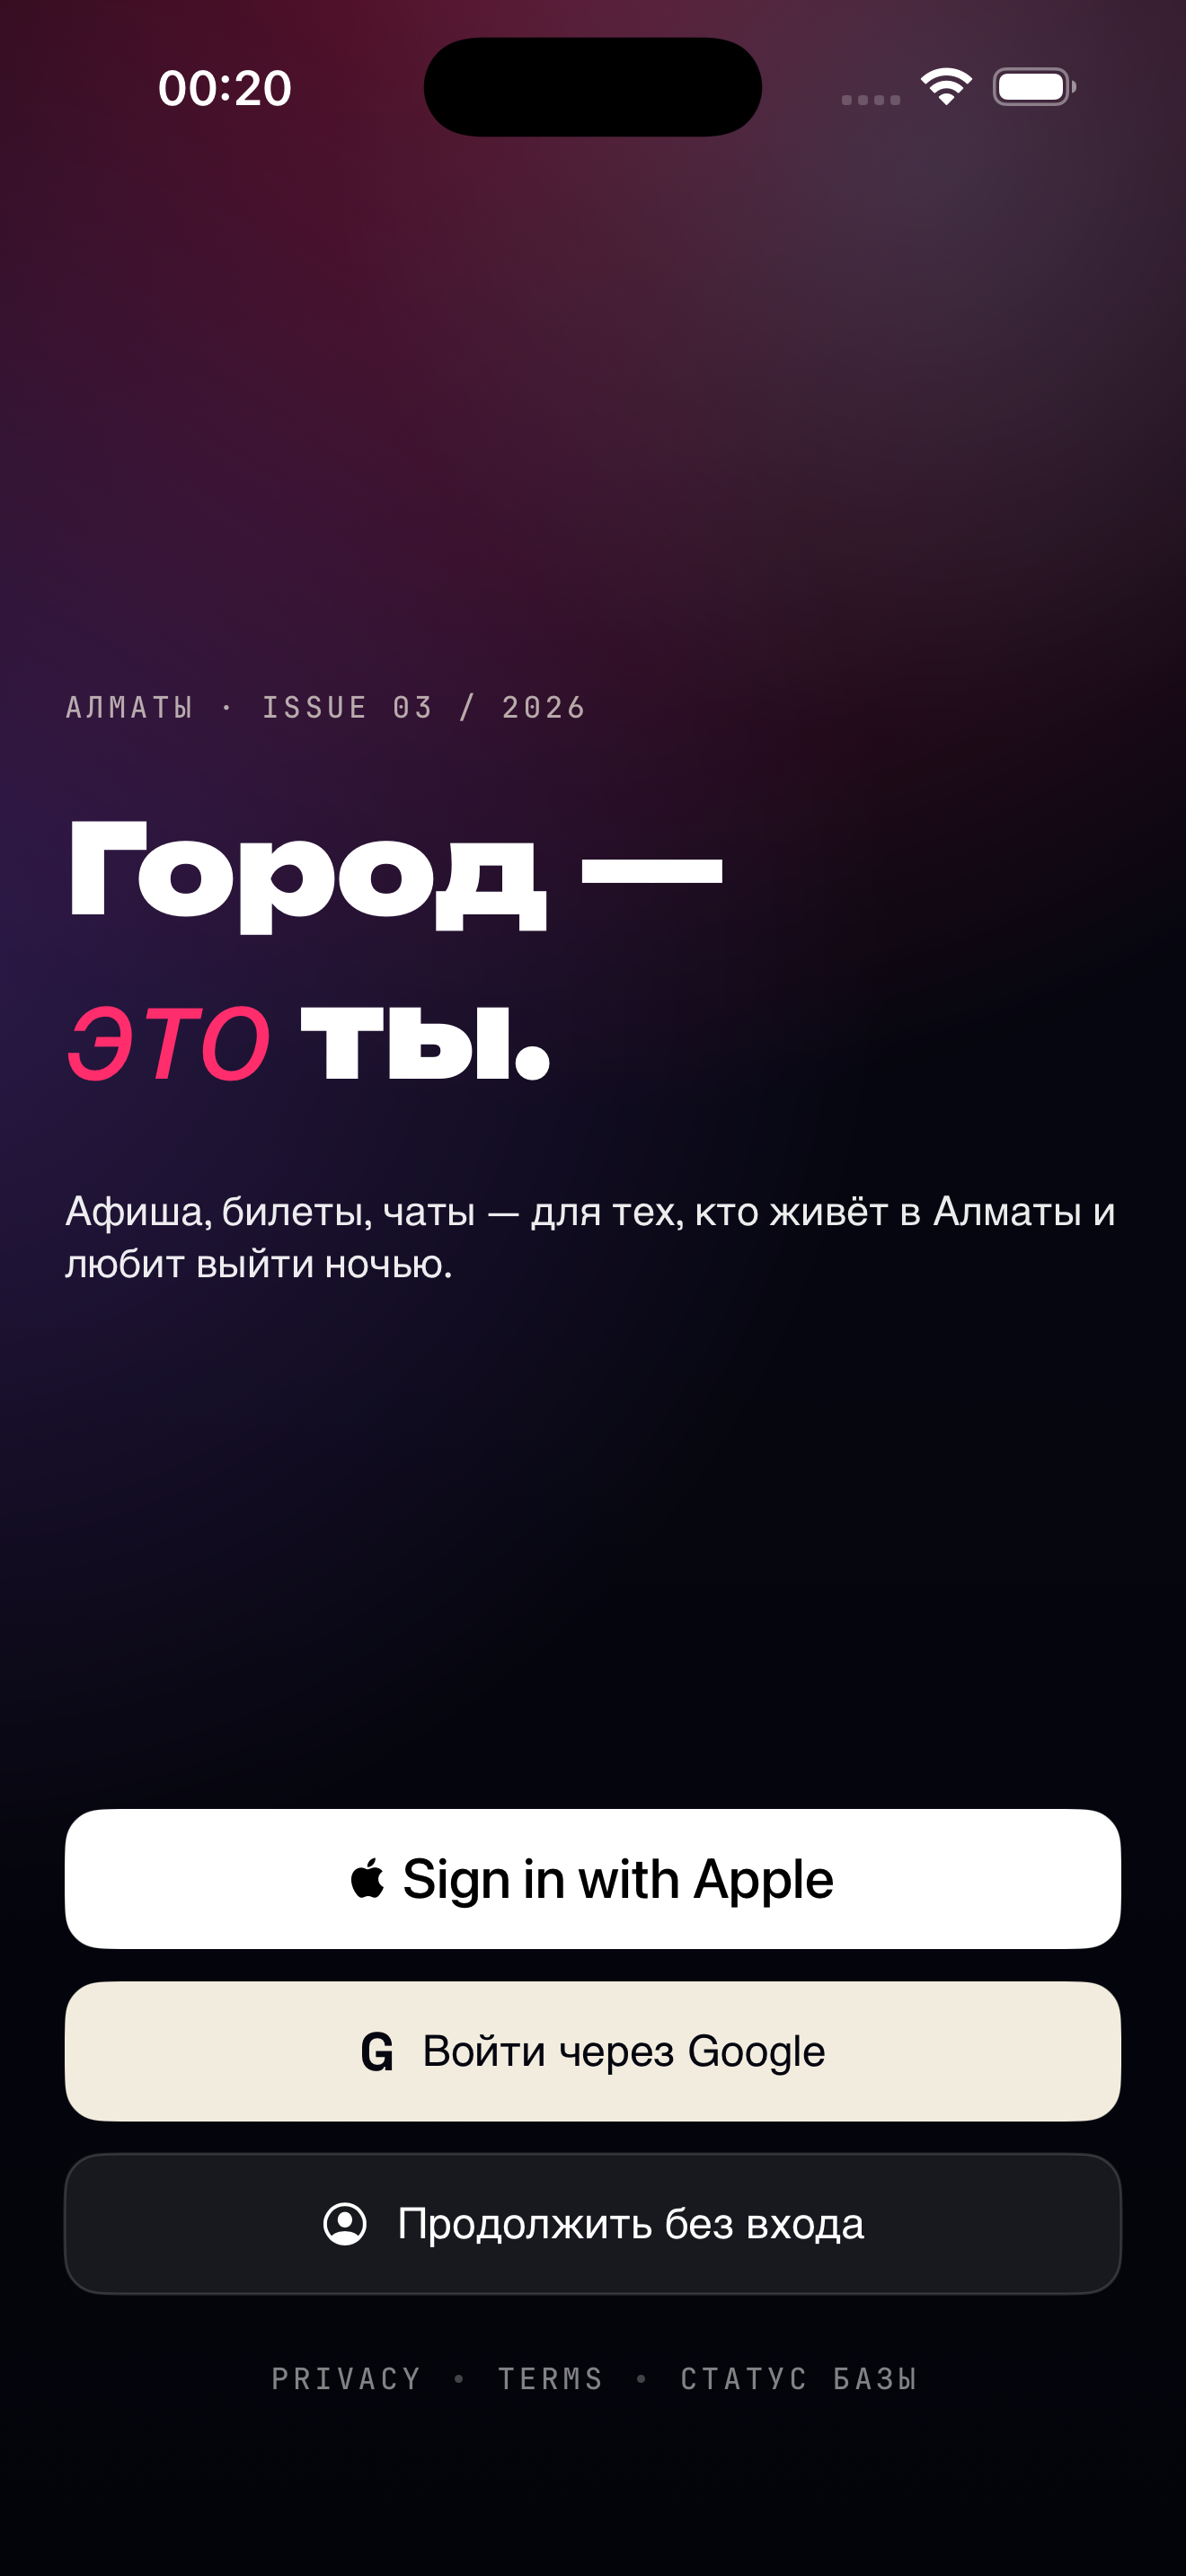
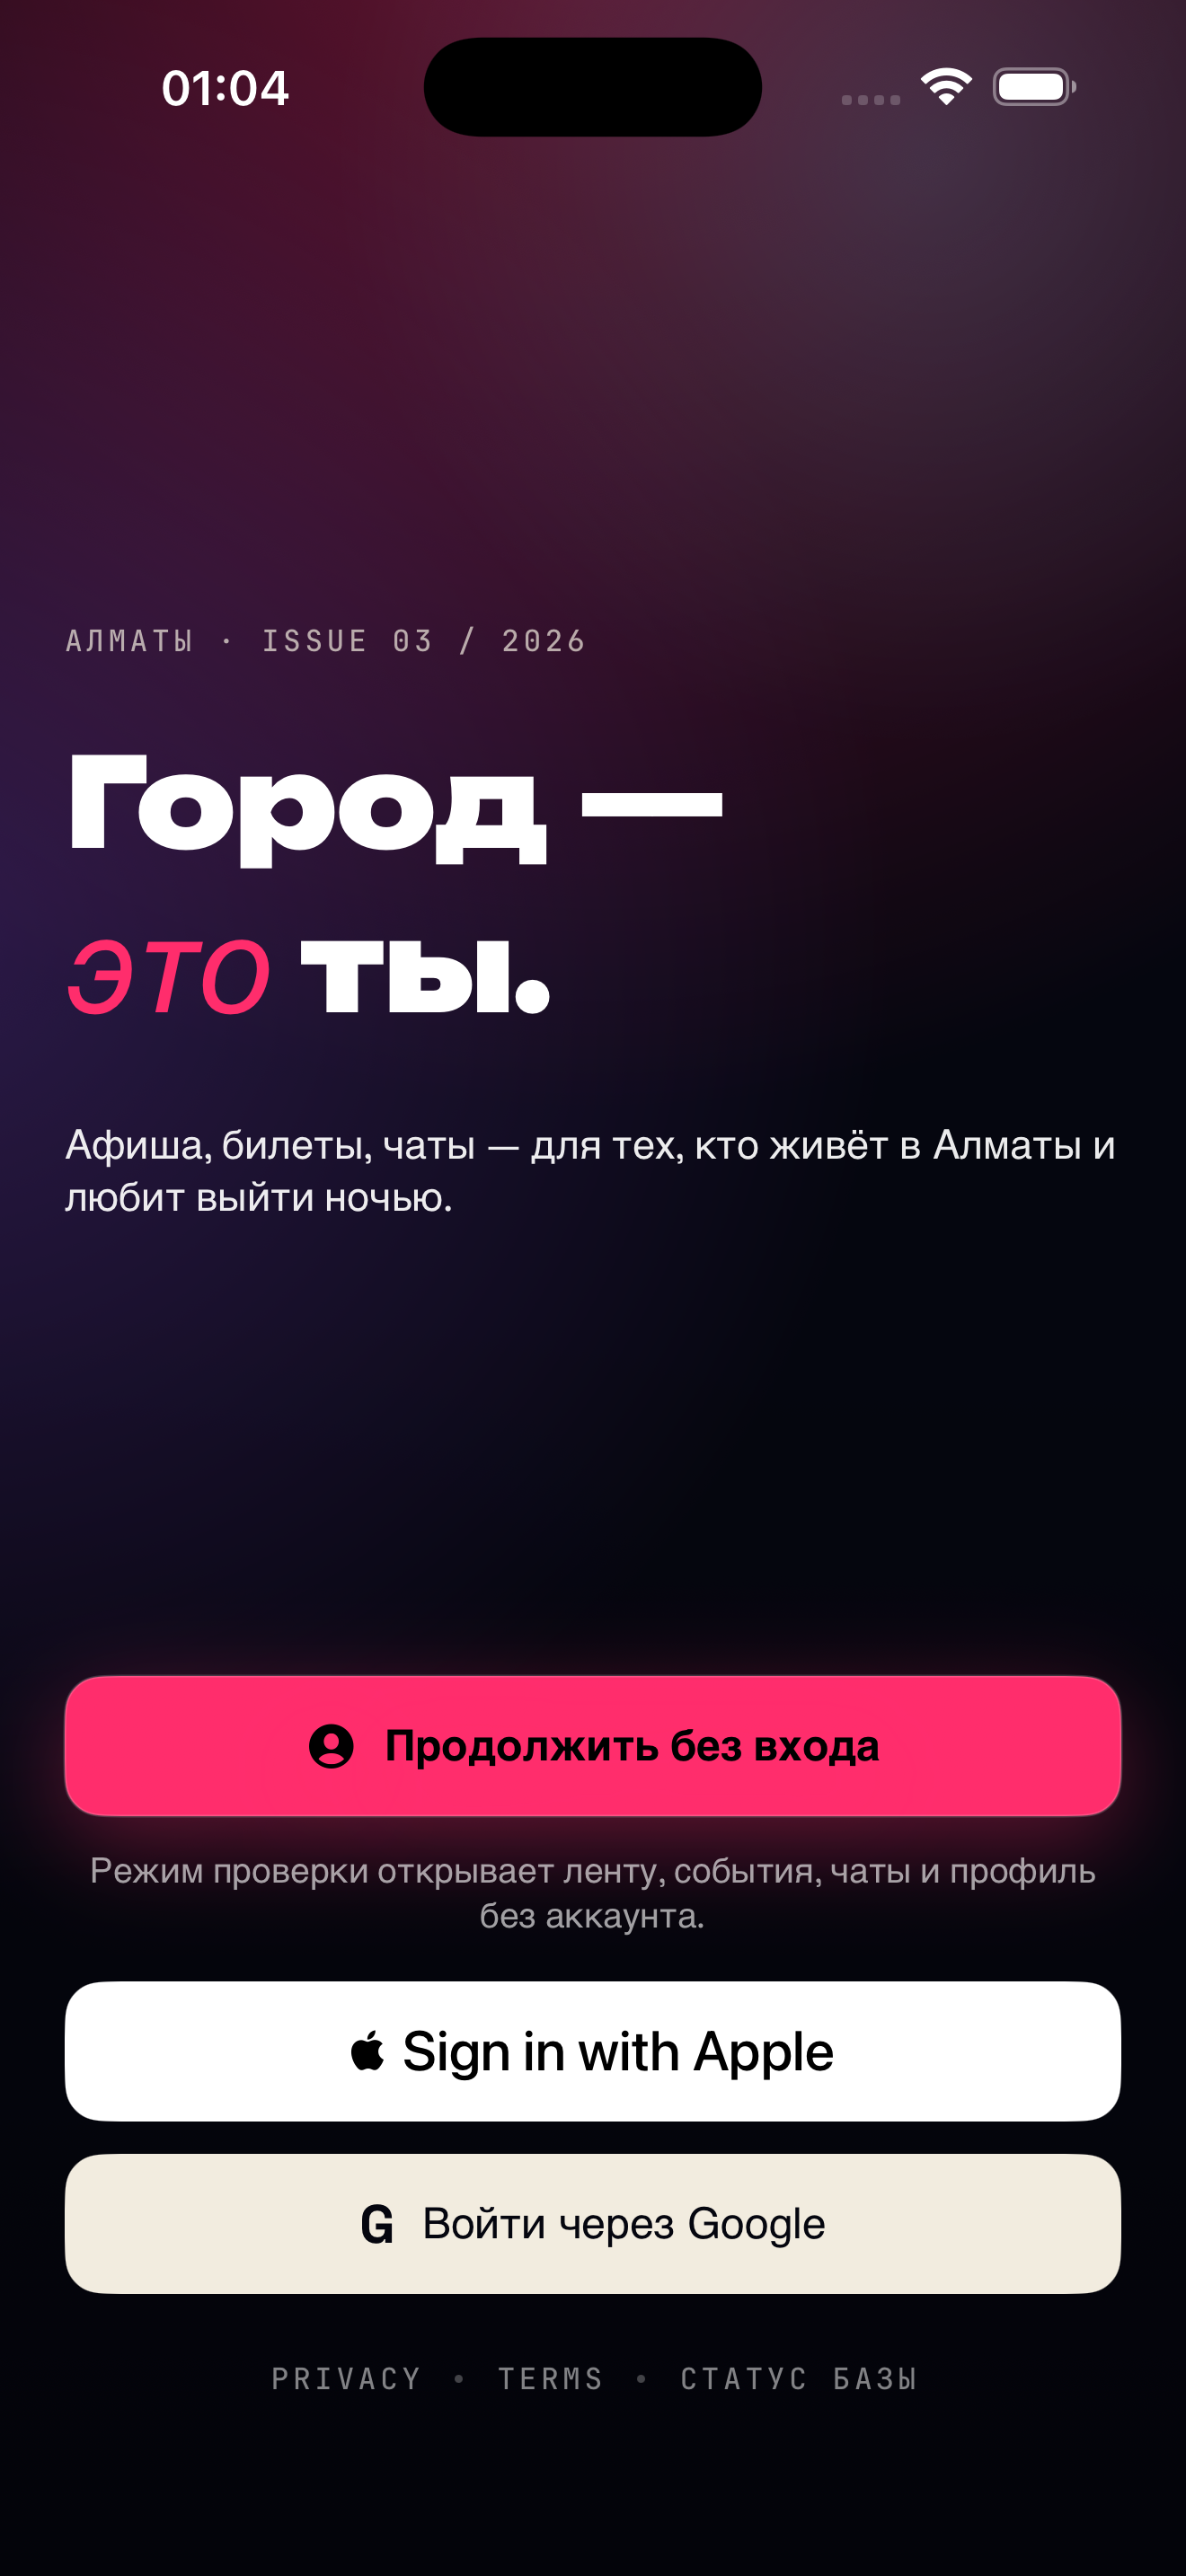
Update App Store pack for build 16 [skip ci]

diff --git a/APP_STORE_SUBMISSION.md b/APP_STORE_SUBMISSION.md
@@ -1,11 +1,11 @@
 # Playa App Store Submission Pack
 
-Current review candidate: Playa `1.0.0 (15)`.
+Current review candidate: Playa `1.0.0 (16)`.
 
 TestFlight evidence:
 
-- Git commit: `5b9d25c` (`Prepare category rail build 15`)
-- GitHub Actions run: https://github.com/tooyakov-art/playa-ios/actions/runs/27881154870
+- Git commit: `5b9d25c` (`Prepare category rail build 16`)
+- GitHub Actions run: https://github.com/tooyakov-art/playa-ios/actions/runs/27882234806
 - Required release step: `Upload to TestFlight = success`
 
 ## App Information
@@ -46,7 +46,7 @@ Version 1.0 does not sell real-money digital goods, subscriptions, or paid ticke
 
 ### What’s New
 
-Build 15 prepares Playa for App Store review: polished Russian category rail, iPhone-only release target, privacy manifest, review legal documents, clearer demo-star ticket flow, visible UGC report/block controls, and hardened TestFlight upload workflow.
+Build 16 prepares Playa for App Store review: primary guest review mode, polished Russian category rail, iPhone-only release target, privacy manifest, review legal documents, clearer demo-star ticket flow, visible UGC report/block controls, and hardened TestFlight upload workflow.
 
 ### Support URL
 
@@ -89,7 +89,7 @@ Production hardening note: also apply `supabase/004_release_hardening.sql`.
 
 ## Screenshot Set Needed
 
-Build 15 is iPhone-only. Upload iPhone screenshots only.
+Build 16 is iPhone-only. Upload iPhone screenshots only.
 
 Required practical set:
 

diff --git a/APP_STORE_PRIVACY_ANSWERS.md b/APP_STORE_PRIVACY_ANSWERS.md
@@ -1,6 +1,6 @@
 # Playa App Store Privacy Answers
 
-Use these answers in App Store Connect for build `1.0.0 (15)`. Keep them aligned with `Playa/PrivacyInfo.xcprivacy`.
+Use these answers in App Store Connect for build `1.0.0 (16)`. Keep them aligned with `Playa/PrivacyInfo.xcprivacy`.
 
 ## Tracking
 
@@ -16,7 +16,7 @@ Declare these as linked to the user and used for app functionality:
 - User Content: posts, comments, direct chats, event chats, reports, profile text, avatar/event images if uploaded.
 - Photos or Videos: avatar and event cover images selected by the user.
 
-## Data Not Collected in Build 15
+## Data Not Collected in Build 16
 
 - Payment Info: not collected; real-money purchases are disabled.
 - Purchases: not collected; StoreKit/IAP is disabled.
@@ -39,7 +39,7 @@ All declared data is not used for tracking.
 - Account management is handled as part of app functionality.
 - Moderation/support uses submitted reports and support email.
 
-## Not in build 15
+## Not in build 16
 
 - Real-money in-app purchases are disabled.
 - Subscriptions are disabled.

diff --git a/app-store/review/MODERATION_POLICY.md b/app-store/review/MODERATION_POLICY.md
@@ -1,6 +1,6 @@
 # Playa Moderation Policy for App Review
 
-Build: Playa `1.0.0 (15)`.
+Build: Playa `1.0.0 (16)`.
 
 ## UGC surfaces
 
@@ -12,7 +12,7 @@ Playa has these user-generated-content surfaces:
 - Event chats.
 - Profile text and avatars.
 
-## User controls in build 15
+## User controls in build 16
 
 - Users can report posts from the feed.
 - Users can report comments from the comments sheet.
@@ -35,4 +35,4 @@ Content that is abusive, hateful, explicit, illegal, spam, impersonation, or uns
 
 ## Real-money note
 
-Build 15 does not sell real-money digital goods, paid tickets, paid stars, or subscriptions. Demo stars have no cash value.
+Build 16 does not sell real-money digital goods, paid tickets, paid stars, or subscriptions. Demo stars have no cash value.

diff --git a/README.md b/README.md
@@ -6,12 +6,12 @@ Native SwiftUI app for Playa: recommendation feed, events, tickets, bonus stars,
 
 - Bundle ID: `app.playahub`
 - App Store name: `Playa`
-- Version: `1.0.0` build `15`
+- Version: `1.0.0` build `16`
 - Apple Team: `F8LA8PC4U6`
 - Stack: Swift 5.9 + SwiftUI, iOS 16+, no external libraries
 - Build: GitHub Actions macOS runner -> TestFlight
 
-## Build 15 Scope
+## Build 16 Scope
 
 - Native SwiftUI `TabView`: Главная, События, Чаты, Профиль.
 - Center floating `+` creates a local TestFlight event and opens it in Events.

diff --git a/app-store/metadata/APP_STORE_CONNECT.md b/app-store/metadata/APP_STORE_CONNECT.md
@@ -1,6 +1,6 @@
 # App Store Connect Metadata
 
-Build: Playa `1.0.0 (15)`.
+Build: Playa `1.0.0 (16)`.
 
 ## Required app/version fields
 
@@ -45,7 +45,7 @@ Keywords:
 What's New:
 
 ```text
-Build 15 prepares Playa for App Store review: polished Russian category rail, iPhone-only release target, privacy manifest, review legal documents, clearer demo-star ticket flow, visible UGC report/block controls, and hardened TestFlight upload workflow.
+Build 16 prepares Playa for App Store review: primary guest review mode, polished Russian category rail, iPhone-only release target, privacy manifest, review legal documents, clearer demo-star ticket flow, visible UGC report/block controls, and hardened TestFlight upload workflow.
 ```
 
 Support URL:

diff --git a/app-store/screenshots/README.md b/app-store/screenshots/README.md
@@ -1,6 +1,6 @@
 # Playa App Store Screenshot Plan
 
-Build: `1.0.0 (15)`.
+Build: `1.0.0 (16)`.
 
 Target: iPhone-only screenshots. Use 6.9-inch portrait where possible.
 
@@ -22,7 +22,7 @@ Recommended export sizes:
 
 ## Capture checklist
 
-1. Install TestFlight build `1.0.0 (15)` or a local debug build from the same commit `5b9d25c`.
+1. Install TestFlight build `1.0.0 (16)` or a local debug build from the same commit `f0e14e1`.
 2. Open the app on a 6.9-inch iPhone simulator/device.
 3. Use `Продолжить без входа` for review-mode access.
 4. Keep status bar clean; avoid personal data.

diff --git a/OFFER.md b/OFFER.md
@@ -2,7 +2,7 @@
 
 Effective date: June 20, 2026
 
-This document describes the commercial status of Playa build 15.
+This document describes the commercial status of Playa build 16.
 
 Version 1.0 does not sell digital goods, subscriptions, event tickets, or paid stars inside the iOS app. Bonus stars in this build are free review/TestFlight credits used to test ticket reservation flows.
 

diff --git a/REFUND.md b/REFUND.md
@@ -4,7 +4,7 @@ Effective date: June 20, 2026
 
 Playa version 1.0 does not process real-money in-app purchases, paid subscriptions, or paid ticket sales.
 
-Bonus stars in build 15 are free review/TestFlight credits and have no cash value.
+Bonus stars in build 16 are free review/TestFlight credits and have no cash value.
 
 If future StoreKit purchases are enabled, refunds will be handled through Apple's standard App Store refund process.
 

diff --git a/SUPPORT.md b/SUPPORT.md
@@ -11,4 +11,4 @@ Recommended message details:
 - Screenshot or screen name.
 - Short description of the issue.
 
-Current App Store review build: Playa 1.0.0 build 15.
+Current App Store review build: Playa 1.0.0 build 16.

diff --git a/TERMS.md b/TERMS.md
@@ -14,7 +14,7 @@ Playa may remove content, restrict access, or disable accounts that violate thes
 
 ## Events and tickets
 
-Build 15 uses bonus stars for review and TestFlight ticket flows. Real-money purchases and subscriptions are disabled in version 1.0 until StoreKit products are ready.
+Build 16 uses bonus stars for review and TestFlight ticket flows. Real-money purchases and subscriptions are disabled in version 1.0 until StoreKit products are ready.
 
 ## Account deletion
 